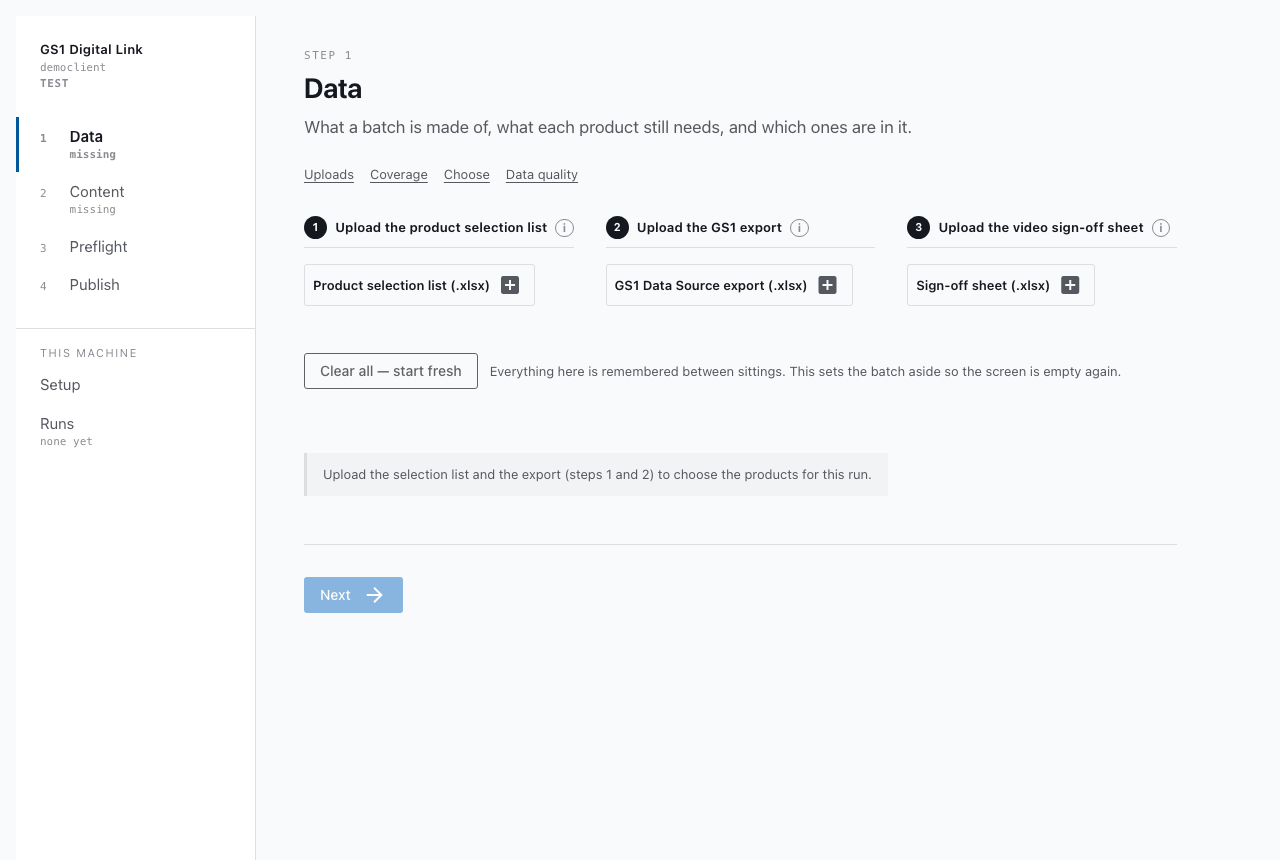
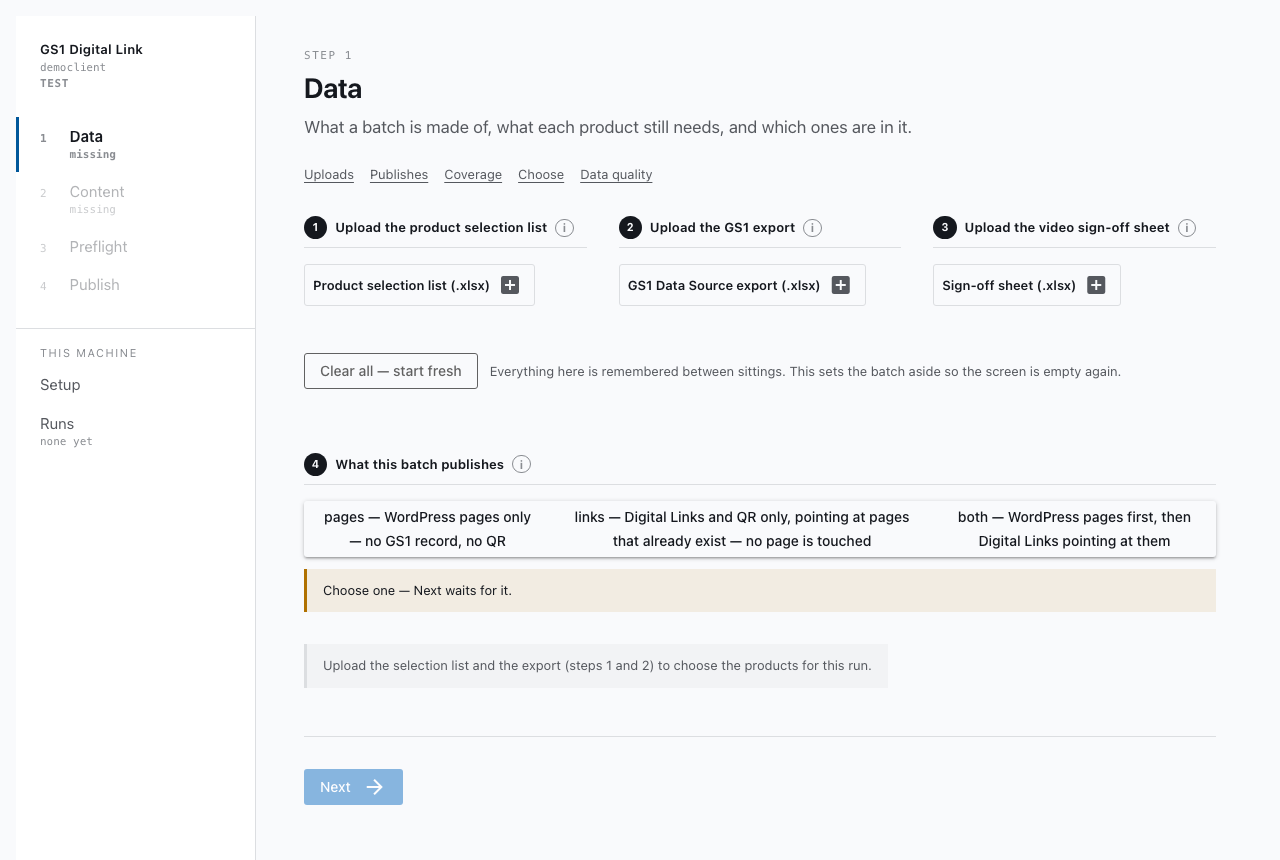
docs: retake the Data and Publish screenshots for the new step order
Captured against democlient in a scratch copy of the repo.

Claude-Session: https://claude.ai/code/session_01QFEAenEjkQ9nWUTf9Fy7Gm

diff --git a/docs/operator-guide.md b/docs/operator-guide.md
@@ -69,7 +69,7 @@ and whoever helps you knows exactly what happened.
 
 ## Step 1 — Data
 
-<img src="images/data.png" alt="The Data screen as it opens: jump links, then three uploads side by side — the product selection list, the GS1 export and the video sign-off sheet — a Clear all — start fresh button, and a band asking for the list and the export." width="900">
+<img src="images/data.png" alt="The Data screen as it opens: jump links, then three uploads side by side — the product selection list, the GS1 export and the video sign-off sheet — a Clear all — start fresh button, step 4 with the three choices pages, links and both and a note that Next waits for one, and a band asking for the list and the export." width="900">
 
 *This is the screen as it opens.* Coverage, the product tables and the quality report appear once
 the list and the export are both there — see below.
@@ -109,7 +109,7 @@ nothing is deleted, and the client's video sign-offs are not touched.
    products when you press Next, and the Publish screen shows it again and asks you to confirm it
    before anything runs.
 
-<img src="images/data-choose.png" alt="An earlier version of step 5 — it now starts with every product of your list, ticked or not, with a Status column; the problem tables sit under it and list only the ticked products." width="900">
+<img src="images/data-choose.png" alt="Steps 4 and 5 for a pages batch: pages chosen; Coverage reading 13 selected, 9 can run, 1 not in the export, 3 not eligible, 2 missing videos; then every product of the list with a tick box, a Status and a Detail column; and under it three folded tables — Not in the GS1 export, Not eligible, Missing video(s) — listing only the ticked products." width="900">
 
 **Coverage** counts **the products you ticked** in step 5 — not your whole list. **Selected** is
 how many you ticked (and, under it, how many are on your list), **can run** is how many of those a
@@ -302,7 +302,7 @@ in the rail to run the checks again.
 
 ## Step 4 — Publish
 
-<img src="images/publish.png" alt="The Publish screen (an earlier version — the first gate now shows the mode chosen on the Data screen, with Confirm, Change on the Data screen and Cancel)." width="900">
+<img src="images/publish.png" alt="The Publish screen: a band saying this pages run is reversible, then the first gate — This batch publishes pages — with Confirm, Change on the Data screen and Cancel." width="900">
 
 **What this screen is for:** doing it. Nothing is written until you have answered every required
 question, and the screen will not let you skip one.
